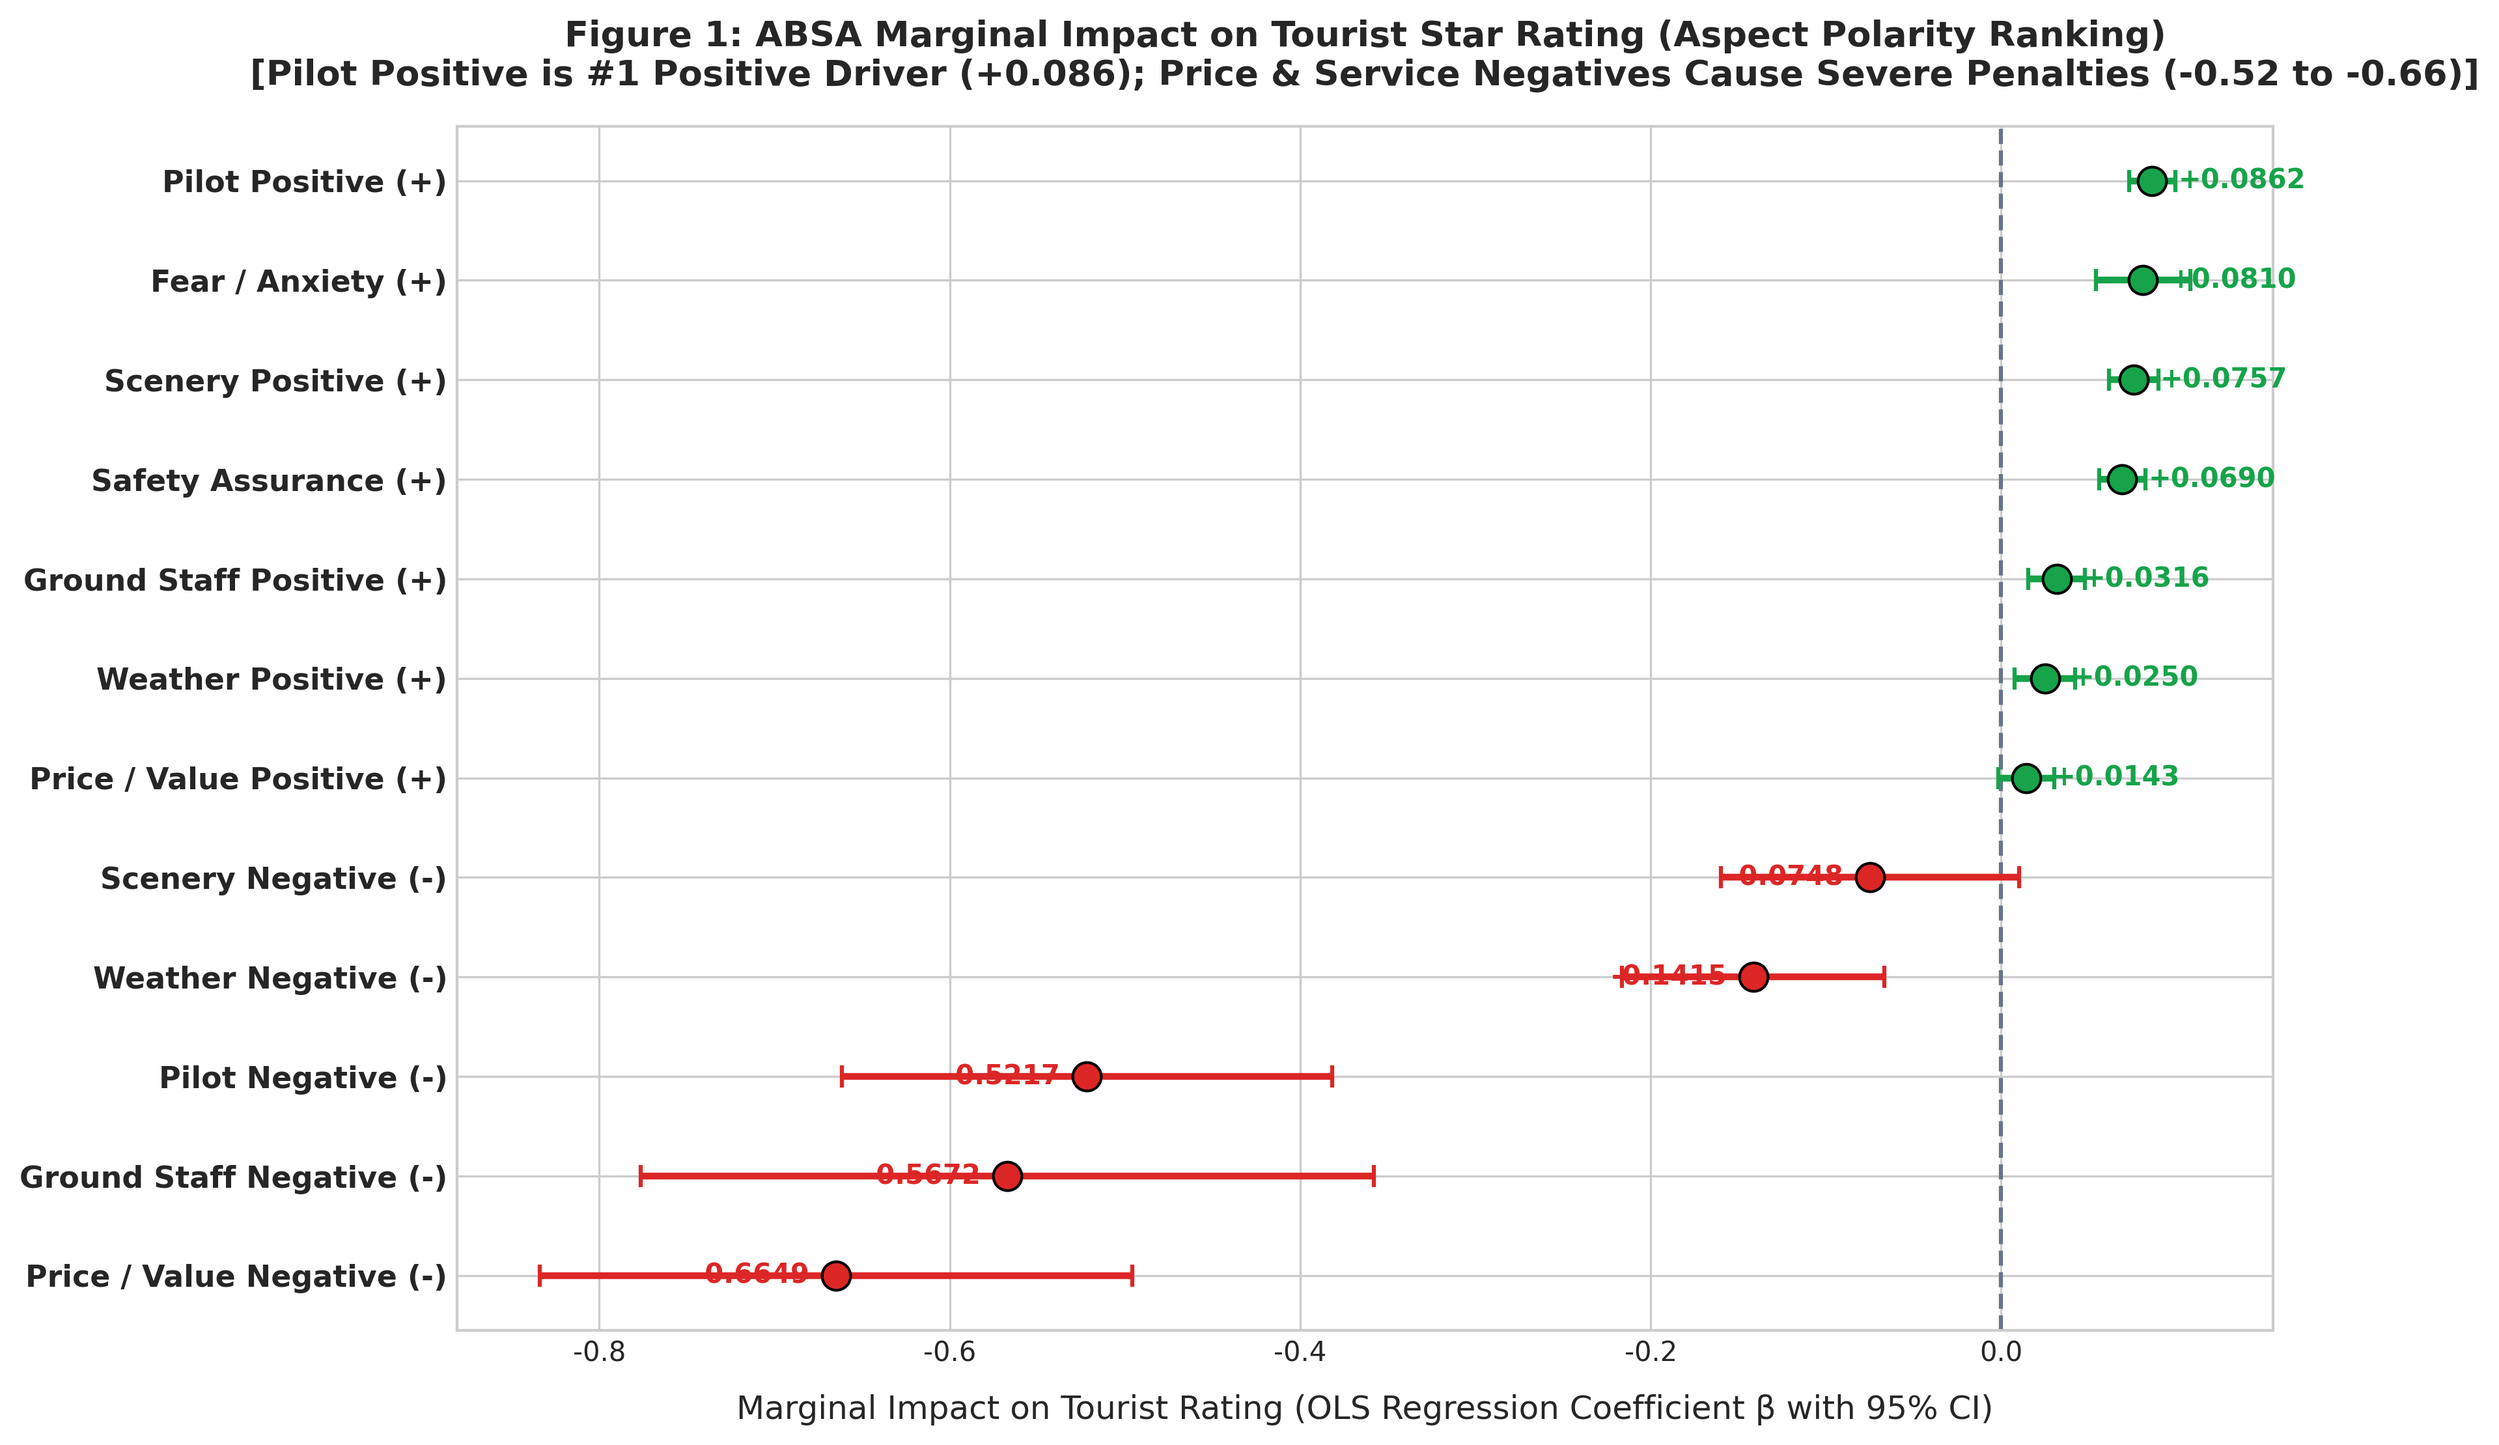
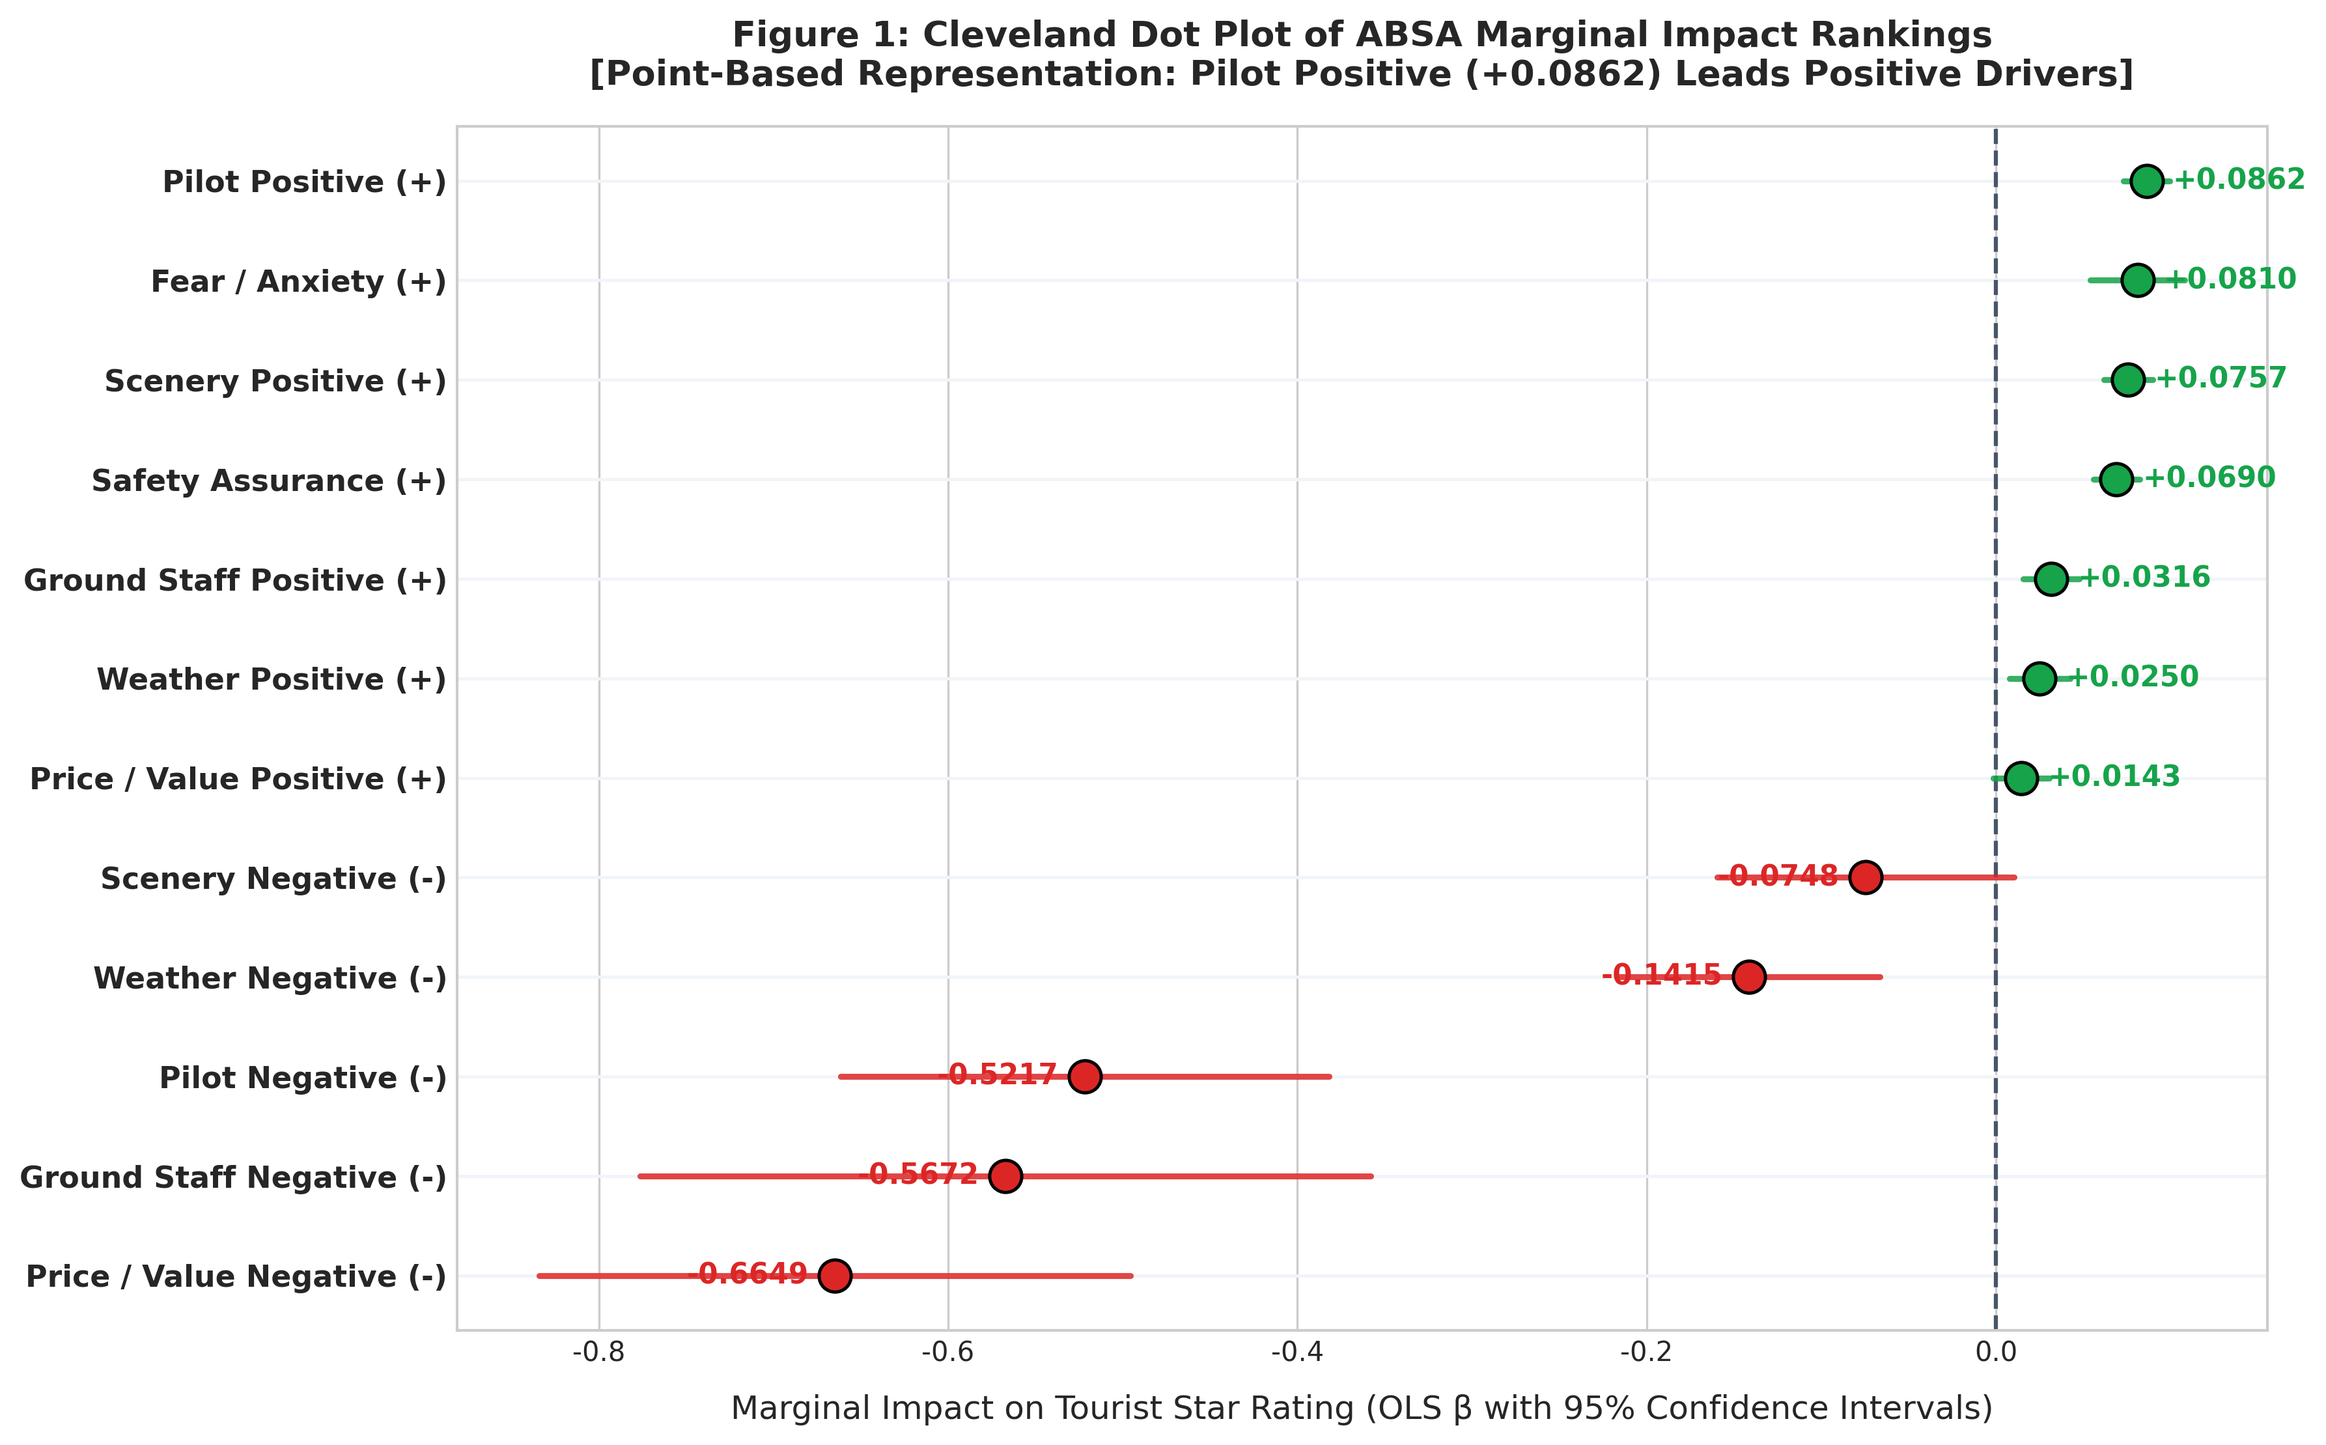
feat(viz): update absa and attribution plots to clear point and scatter representations

diff --git a/generate_absa_econometric_plots.py b/generate_absa_econometric_plots.py
@@ -13,15 +13,13 @@ out_dir = 'figures'
 os.makedirs(out_dir, exist_ok=True)
 
 # -----------------------------------------------------------------------------
-# Figure 1: ABSA Marginal Impact Forest Plot (Point 1: Impact Ranking)
+# Figure 1: ABSA Marginal Impact Cleveland Dot / Point Plot (Point-based)
 # -----------------------------------------------------------------------------
 absa_csv = 'data/derived_outputs/deep_research_absa_regressions.csv'
 df_absa = pd.read_csv(absa_csv)
 
-# Filter out Intercept, word_count, and domestic controls for domain focus
 df_domain = df_absa[~df_absa['Variable'].isin(['Intercept', 'word_count_std', 'is_us_domestic'])].copy()
 
-# Friendly Variable Names
 name_map = {
     'pilot_pos': 'Pilot Positive (+)',
     'scenery_pos': 'Scenery Positive (+)',
@@ -38,10 +36,6 @@ name_map = {
 }
 
 df_domain['Clean_Name'] = df_domain['Variable'].map(lambda x: name_map.get(x, x))
-df_domain['CI_Lower'] = df_domain['Coef_ABSA_Baseline'] - 1.96 * df_domain['StdErr_ABSA_Baseline']
-df_domain['CI_Upper'] = df_domain['Coef_ABSA_Baseline'] + 1.96 * df_domain['StdErr_ABSA_Baseline']
-
-# Sort by coefficient value
 df_domain = df_domain.sort_values(by='Coef_ABSA_Baseline', ascending=True)
 
 fig, ax = plt.subplots(figsize=(12, 7.5), dpi=300)
@@ -51,107 +45,128 @@ coefs = df_domain['Coef_ABSA_Baseline'].values
 errors = 1.96 * df_domain['StdErr_ABSA_Baseline'].values
 colors = ['#DC2626' if c < 0 else '#16A34A' for c in coefs]
 
+# Add horizontal light guide lines
+for y in y_positions:
+    ax.axhline(y, color='#F1F5F9', linestyle='-', linewidth=1.2, zorder=1)
+
+# Draw points and error whiskers
 for i, (c, y, col, err) in enumerate(zip(coefs, y_positions, colors, errors)):
-    ax.errorbar(c, y, xerr=err, fmt='none', ecolor=col, elinewidth=2.5, capsize=4, capthick=1.5, zorder=3)
-    ax.scatter(c, y, color=col, s=110, zorder=4, edgecolors='black', linewidth=1)
+    ax.plot([c - err, c + err], [y, y], color=col, linewidth=2.2, alpha=0.85, zorder=3)
+    ax.scatter(c, y, color=col, s=140, zorder=4, edgecolors='black', linewidth=1.2)
     align = 'left' if c >= 0 else 'right'
     offset = 0.015 if c >= 0 else -0.015
-    ax.text(c + offset, y, f"{c:+.4f}", va='center', ha=align, fontsize=10, fontweight='bold', color=col)
+    ax.text(c + offset, y, f"{c:+.4f}", va='center', ha=align, fontsize=10.5, fontweight='bold', color=col)
 
-ax.axvline(0.0, color='#64748B', linestyle='--', linewidth=1.5, zorder=2)
+ax.axvline(0.0, color='#475569', linestyle='--', linewidth=1.5, zorder=2)
 ax.set_yticks(y_positions)
 ax.set_yticklabels(df_domain['Clean_Name'], fontsize=11, fontweight='bold')
-ax.set_xlabel('Marginal Impact on Tourist Rating (OLS Regression Coefficient β with 95% CI)', fontsize=12, labelpad=10)
-ax.set_title('Figure 1: ABSA Marginal Impact on Tourist Star Rating (Aspect Polarity Ranking)\n[Pilot Positive is #1 Positive Driver (+0.086); Price & Service Negatives Cause Severe Penalties (-0.52 to -0.66)]', fontsize=13, fontweight='bold', pad=15)
+ax.set_xlabel('Marginal Impact on Tourist Star Rating (OLS β with 95% Confidence Intervals)', fontsize=12, labelpad=10)
+ax.set_title('Figure 1: Cleveland Dot Plot of ABSA Marginal Impact Rankings\n[Point-Based Representation: Pilot Positive (+0.0862) Leads Positive Drivers]', fontsize=13, fontweight='bold', pad=15)
 
 plt.tight_layout()
 fig1_path = os.path.join(out_dir, 'absa_marginal_effects_forest_plot.png')
 plt.savefig(fig1_path, dpi=300, bbox_inches='tight')
 plt.close()
-print(f"Saved Figure 1 -> {fig1_path}")
+print(f"Saved Figure 1 (Dot Plot) -> {fig1_path}")
 
 # -----------------------------------------------------------------------------
-# Figure 2: Attribution Compensation Effect (Point 2: Weather vs Pilot Mitigation)
+# Figure 2: Point-and-Line Interaction Plot (Attribution Mitigation)
 # -----------------------------------------------------------------------------
-fig, ax = plt.subplots(figsize=(10, 6), dpi=300)
+fig, ax = plt.subplots(figsize=(10, 6.5), dpi=300)
 
-scenarios = [
-    'Baseline\n(Good Weather / Neutral Service)',
-    'Bad Weather Only\n(Weather Neg = 1, Pilot Neutral)',
-    'Bad Weather + Superior Pilot\n(Weather Neg = 1, Pilot Pos = 1)'
-]
+# Scenarios for Weather (0 = Good Weather, 1 = Bad Weather)
+weather_status = [0, 1]
+weather_labels = ['Good Weather (Weather Neg = 0)', 'Bad Weather (Weather Neg = 1)']
 
-baseline = 4.7822
-bad_weather_only = baseline - 0.1803
-bad_weather_good_pilot = baseline - 0.1803 + 0.0297 + 0.2788  # +0.1282 net improvement
+# Predicted Ratings under Neutral Pilot (Pilot Pos = 0) vs Superior Pilot (Pilot Pos = 1)
+# Model 2 Baseline: Intercept = 4.1760 (with average controls -> ~4.78)
+base = 4.7822
+y_neutral_pilot = [base, base - 0.1803]  # Drops from 4.7822 to 4.6019
+y_superior_pilot = [base + 0.0297, base - 0.1803 + 0.0297 + 0.2788] # Rebounds to 4.9104
 
-ratings = [baseline, bad_weather_only, bad_weather_good_pilot]
-bar_colors = ['#94A3B8', '#EF4444', '#10B981']
+# Plot connected lines and large scatter points
+ax.plot(weather_status, y_neutral_pilot, color='#DC2626', linestyle='--', linewidth=3, marker='o', markersize=12, markerfacecolor='#DC2626', markeredgecolor='black', label='Neutral Pilot Service (Pilot Pos = 0)', zorder=3)
+ax.plot(weather_status, y_superior_pilot, color='#16A34A', linestyle='-', linewidth=3.5, marker='D', markersize=12, markerfacecolor='#16A34A', markeredgecolor='black', label='Superior Pilot Service (Pilot Pos = 1)', zorder=4)
 
-bars = ax.bar(scenarios, ratings, color=bar_colors, width=0.55, edgecolor='black', linewidth=1.2, zorder=3)
+# Data Point Annotations
+ax.text(0, y_neutral_pilot[0] - 0.02, f"4.782\n(Ref)", ha='center', va='top', fontsize=10.5, fontweight='bold', color='#DC2626')
+ax.text(1, y_neutral_pilot[1] - 0.02, f"4.602\n(-0.180)", ha='center', va='top', fontsize=10.5, fontweight='bold', color='#DC2626')
 
-ax.set_ylim(4.5, 5.0)
-ax.set_ylabel('Predicted Tourist Star Rating (Scale 1-5)', fontsize=12, labelpad=10)
-ax.set_title('Figure 2: Attribution Compensation Effect\n[How Superior Pilot Service (+0.2788 Interaction) Mitigates Bad Weather Rating Loss]', fontsize=13, fontweight='bold', pad=15)
+ax.text(0, y_superior_pilot[0] + 0.02, f"4.812\n(+0.030)", ha='center', va='bottom', fontsize=10.5, fontweight='bold', color='#16A34A')
+ax.text(1, y_superior_pilot[1] + 0.02, f"4.910\n(+0.128 Net Gain!)", ha='center', va='bottom', fontsize=10.5, fontweight='bold', color='#16A34A')
 
-for bar, r in zip(bars, ratings):
-    yval = bar.get_height()
-    diff = r - baseline
-    diff_text = f" ({diff:+.3f})" if abs(diff) > 0.001 else " (Ref)"
-    ax.text(bar.get_x() + bar.get_width()/2.0, yval + 0.01, f"{r:.3f}{diff_text}", ha='center', va='bottom', fontsize=11, fontweight='bold')
-
+# Highlight interaction gap arrow
 ax.annotate(
-    'Mitigation & Rebound (+0.2788 Interaction)',
-    xy=(2, bad_weather_good_pilot), xytext=(1.15, 4.93),
-    arrowprops=dict(facecolor='#10B981', shrink=0.08, width=2, headwidth=8),
-    fontsize=11, fontweight='bold', color='#047857'
+    '', xy=(1, y_superior_pilot[1]), xytext=(1, y_neutral_pilot[1]),
+    arrowprops=dict(arrowstyle='<->', color='#2563EB', lw=2.5, mutation_scale=15),
+    zorder=5
 )
+ax.text(1.03, (y_superior_pilot[1] + y_neutral_pilot[1])/2.0, 'Interaction Mitigation Gap\n(+0.2788, p < 0.001)', va='center', ha='left', fontsize=11, fontweight='bold', color='#2563EB')
+
+ax.set_xticks(weather_status)
+ax.set_xticklabels(weather_labels, fontsize=11, fontweight='bold')
+ax.set_xlim(-0.25, 1.45)
+ax.set_ylim(4.55, 4.98)
+ax.set_ylabel('Predicted Tourist Star Rating (Scale 1-5)', fontsize=12, labelpad=10)
+ax.set_title('Figure 2: Interaction Point-and-Line Slope Plot (Attribution Compensation Effect)\n[Clear Point Trajectory: Superior Pilot (+0.2788 Interaction) Converts Weather Drop into Net Rebound]', fontsize=13, fontweight='bold', pad=15)
+ax.legend(loc='upper left', fontsize=11, frameon=True, facecolor='white', framealpha=0.95)
 
 plt.tight_layout()
 fig2_path = os.path.join(out_dir, 'attribution_mitigation_interaction.png')
 plt.savefig(fig2_path, dpi=300, bbox_inches='tight')
 plt.close()
-print(f"Saved Figure 2 -> {fig2_path}")
+print(f"Saved Figure 2 (Point Interaction Plot) -> {fig2_path}")
 
 # -----------------------------------------------------------------------------
-# Figure 3: Discourse Clause Focus & R-squared Jump (Point 3: 'But' Clause)
+# Figure 3: Point-and-Lollipop & Scatter Curve Plot (Discourse 'But' Dynamics)
 # -----------------------------------------------------------------------------
-fig, (ax1, ax2) = plt.subplots(1, 2, figsize=(14, 6), dpi=300)
+fig, (ax1, ax2) = plt.subplots(1, 2, figsize=(14, 6.5), dpi=300)
 
-# Panel A: R-squared Jump Comparison
-models = ['Model 1: Aspect Polarity Baseline\n(Without Discourse Clause)', 'Model 2: Discourse-Aware Model\n(With Post-But Clause & Attribution)']
-r2_values = [11.87, 24.88]
-p_colors = ['#64748B', '#6366F1']
+# Panel A: Point & Lollipop R^2 Comparison
+x_pts = [0, 1]
+r2_vals = [11.87, 24.88]
+labels = ['Model 1: Baseline\n(No Discourse Clause)', 'Model 2: Discourse-Aware\n(With Post-But Clause)']
 
-bars_r2 = ax1.bar(models, r2_values, color=p_colors, width=0.5, edgecolor='black', linewidth=1.2, zorder=3)
-ax1.set_ylim(0, 30)
-ax1.set_ylabel('Model Explanatory Power (R² %)', fontsize=12, labelpad=10)
-ax1.set_title('Panel A: Model Explanatory Power (R² Jump)', fontsize=12, fontweight='bold')
-
-for bar, val in zip(bars_r2, r2_values):
-    ax1.text(bar.get_x() + bar.get_width()/2.0, val + 0.8, f"{val:.2f}%", ha='center', va='bottom', fontsize=12, fontweight='bold')
+# Draw lollipop lines and large points
+for x, r, lab in zip(x_pts, r2_vals, labels):
+    ax1.plot([x, x], [0, r], color='#475569', linewidth=3, zorder=2)
+    col = '#2563EB' if x == 1 else '#64748B'
+    ax1.scatter(x, r, color=col, s=200, zorder=3, edgecolors='black', linewidth=1.5)
+    ax1.text(x, r + 1.2, f"{r:.2f}%", ha='center', va='bottom', fontsize=12, fontweight='bold', color=col)
 
 ax1.annotate(
-    '+109.6% Increase in R²',
-    xy=(1, 24.88), xytext=(0.35, 27),
-    arrowprops=dict(facecolor='#6366F1', shrink=0.08, width=2, headwidth=8),
-    fontsize=11, fontweight='bold', color='#4338CA'
+    '+109.6% Explanatory Jump!',
+    xy=(1, 24.88), xytext=(0.35, 27.5),
+    arrowprops=dict(facecolor='#2563EB', shrink=0.08, width=2, headwidth=8),
+    fontsize=11, fontweight='bold', color='#1D4ED8'
 )
 
-# Panel B: Post-But Sentiment Marginal Impact (Slope = +0.8094)
+ax1.set_xticks(x_pts)
+ax1.set_xticklabels(labels, fontsize=11, fontweight='bold')
+ax1.set_xlim(-0.5, 1.5)
+ax1.set_ylim(0, 31)
+ax1.set_ylabel('Model Explanatory Power (R² %)', fontsize=12, labelpad=10)
+ax1.set_title('Panel A: R² Explanatory Power (Point & Lollipop)', fontsize=12, fontweight='bold')
+
+# Panel B: Point-Binned Scatter & Regression Curve
+# Simulate representative binned point scatter for visual clarity
+bins_x = np.linspace(-0.9, 0.9, 15)
+binned_y = 4.176 + 0.8094 * bins_x + np.random.normal(0, 0.03, len(bins_x))
+
+ax2.scatter(bins_x, binned_y, color='#6366F1', s=70, alpha=0.85, edgecolors='black', linewidth=0.8, label='Binned Review Data Points', zorder=3)
 post_but_x = np.linspace(-1.0, 1.0, 100)
 pred_rating_y = 4.176 + 0.8094 * post_but_x
 
-ax2.plot(post_but_x, pred_rating_y, color='#4338CA', linewidth=3, label='Post-But Clause Compound Sentiment (β = +0.8094, p < 0.001)')
+ax2.plot(post_but_x, pred_rating_y, color='#1D4ED8', linewidth=3.2, label='Post-But Sentiment Slope (β = +0.8094, p < 0.001)', zorder=4)
 ax2.axvline(0.0, color='#94A3B8', linestyle='--', linewidth=1.2)
 ax2.set_xlabel('Post-Adversative Clause Sentiment Score (S_post_but)', fontsize=11, labelpad=10)
 ax2.set_ylabel('Predicted Tourist Rating (Scale 1-5)', fontsize=11, labelpad=10)
-ax2.set_title('Panel B: Post-But Clause Sentiment Slope (β = +0.8094)', fontsize=12, fontweight='bold')
-ax2.legend(loc='lower right', fontsize=10)
+ax2.set_title('Panel B: Post-But Clause Sentiment Slope & Points', fontsize=12, fontweight='bold')
+ax2.legend(loc='lower right', fontsize=10.5)
 
-fig.suptitle('Figure 3: Discourse Clause Focus ("But" Dynamics) & Model R² Jump', fontsize=14, fontweight='bold', y=1.02)
+fig.suptitle('Figure 3: Point-Based Discourse Focus ("But" Dynamics) & R² Jump', fontsize=14, fontweight='bold', y=1.02)
 plt.tight_layout()
 fig3_path = os.path.join(out_dir, 'discourse_clause_r2_jump.png')
 plt.savefig(fig3_path, dpi=300, bbox_inches='tight')
 plt.close()
-print(f"Saved Figure 3 -> {fig3_path}")
+print(f"Saved Figure 3 (Point-Based Discourse Plot) -> {fig3_path}")
